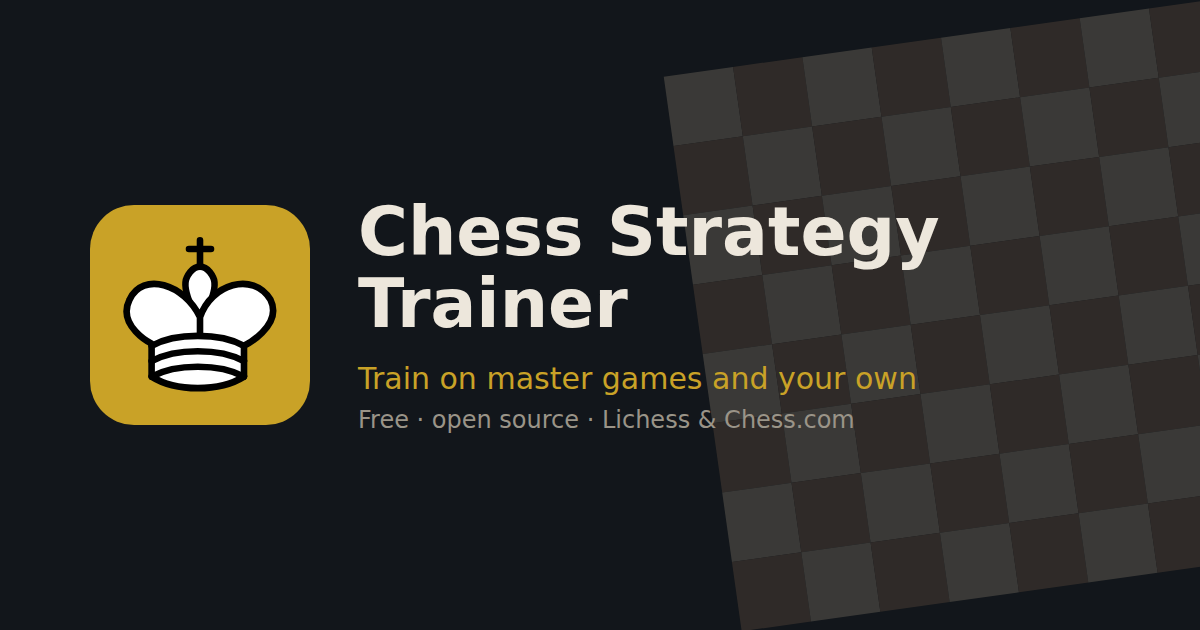
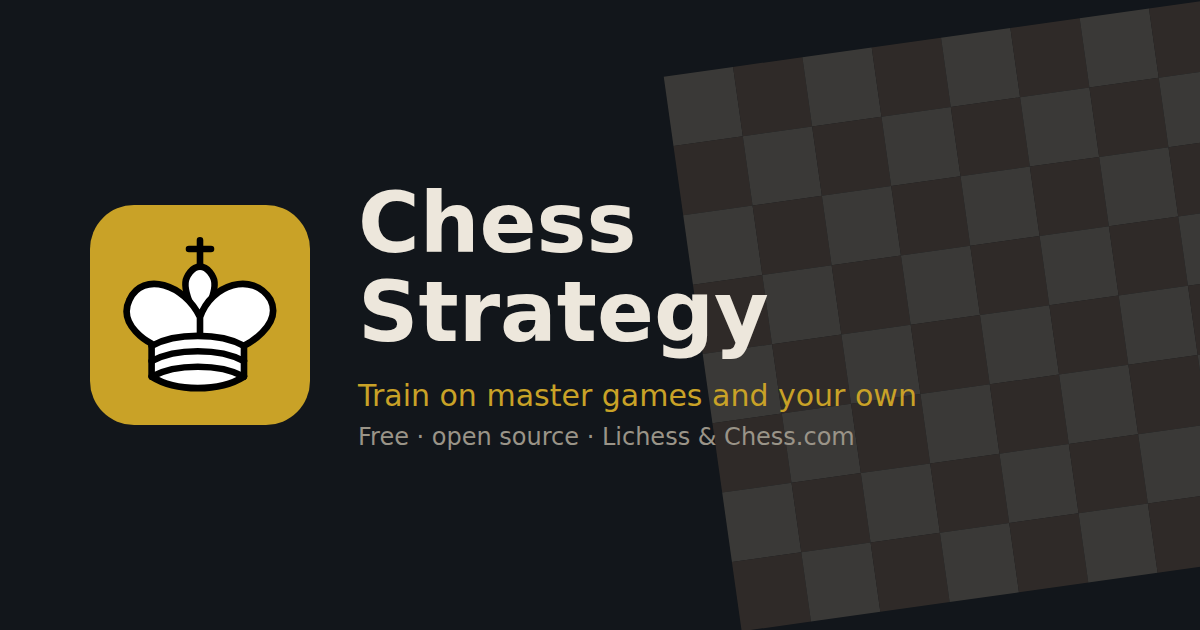
Name: Chess Strategy (home, page title, app name, legal pages, preview image)
Claude-Session: https://claude.ai/code/session_01MnfZY7zM1xtVVHQnQ5TNNV

Changed region(s): [[0.2775, 0.3016, 0.8017, 0.7238]]

diff --git a/index.html b/index.html
@@ -6,7 +6,7 @@
 <meta name="theme-color" content="#12161B">
 <meta name="description" content="Chess strategy training on positions from master games and your own Lichess and Chess.com games.">
 <meta property="og:type" content="website">
-<meta property="og:title" content="Chess Strategy Trainer">
+<meta property="og:title" content="Chess Strategy">
 <meta property="og:description" content="Free chess strategy training on positions from master games and your own Lichess and Chess.com games.">
 <meta property="og:url" content="https://taussane.github.io/chess-trainer/">
 <meta property="og:image" content="https://taussane.github.io/chess-trainer/icons/og-image.png">
@@ -25,7 +25,7 @@
 <!-- Built from app/index.html by scripts/build-site.py: edit the app, not this file. -->
 </head>
 <body>
-<title>Chess Strategy Trainer</title>
+<title>Chess Strategy</title>
 <style>
   /* Layout: one narrow column, home page of three exercise cards, each exercise = position bar + board + one panel. */
   :root{
@@ -4020,7 +4020,7 @@ function kofiButton(){
 const APP_URL = 'https://taussane.github.io/chess-trainer/';
 let supCopied = false;
 async function shareApp(){
-  const data = { title: tr('Chess Strategy Trainer'), text: tr('Free chess strategy training on master games and your own.'), url: APP_URL };
+  const data = { title: 'Chess Strategy', text: tr('Free chess strategy training on master games and your own.'), url: APP_URL };
   if(navigator.share){ try{ await navigator.share(data); }catch(e){} return; }   // (closing the sheet is not an error worth showing)
   copyAppLink();
 }
@@ -4143,7 +4143,7 @@ function renderHome(){
   app.innerHTML = `
     <div class="home-head">
       <div class="home-top"><button class="acct-chip" id="accountBtn"><span class="acct-dot" aria-hidden="true"><span class="pc pc-wK"></span></span>${DIRECT_LICHESS && !signedIn() ? 'Profile' : `${displayName().replace(/</g,'&lt;') || 'Guest'}`}</button></div>
-      <h1>Chess Strategy Trainer</h1>
+      <h1 data-no-i18n>Chess Strategy</h1>
       ${(DIRECT_LICHESS ? !signedIn() : !results.length) ? `<p>Train your strategy beyond tactics puzzles: gauge the imbalances, evaluate the position, find good candidates, choose the best.<br>Learn from master games and your own mistakes.</p>` : ''}
     </div>
     ${routineCard()}
@@ -5666,7 +5666,6 @@ const dateLoc = ()=>typeof LANG!=='undefined' && LANG==='fr' ? 'fr-CA' : undefin
 // marked data-no-i18n (and their children) are left alone: moves, names.
 var LANG = 'en';   // (var: read by dateLoc before this line runs, at worst)
 const I18N_FR = new Map(Object.entries(/*I18N_FR*/{
-"Chess Strategy Trainer": "Entraîneur de stratégie aux échecs",
 "Back to exercises": "Retour aux exercices",
 "Back to profile": "Retour au profil",
 "How this exercise works": "Comment fonctionne cet exercice",
@@ -6125,7 +6124,7 @@ function setLanguage(){
   LANG = settings.lang || auto;
   localPieces = LOCAL_PIECES[LANG] || null;
   document.documentElement.lang = LANG;
-  document.title = LANG==='fr' ? 'Entraîneur de stratégie aux échecs' : 'Chess Strategy Trainer';
+  document.title = 'Chess Strategy';
   i18nObserver.disconnect();
   if(LANG==='fr'){ translateNode(document.body); i18nObserver.observe(document.body, { childList:true, subtree:true, characterData:true, attributes:true, attributeFilter:I18N_ATTRS }); }
 }

diff --git a/app/index.html b/app/index.html
@@ -1,4 +1,4 @@
-<title>Chess Strategy Trainer</title>
+<title>Chess Strategy</title>
 <style>
   /* Layout: one narrow column, home page of three exercise cards, each exercise = position bar + board + one panel. */
   :root{
@@ -3993,7 +3993,7 @@ function kofiButton(){
 const APP_URL = 'https://taussane.github.io/chess-trainer/';
 let supCopied = false;
 async function shareApp(){
-  const data = { title: tr('Chess Strategy Trainer'), text: tr('Free chess strategy training on master games and your own.'), url: APP_URL };
+  const data = { title: 'Chess Strategy', text: tr('Free chess strategy training on master games and your own.'), url: APP_URL };
   if(navigator.share){ try{ await navigator.share(data); }catch(e){} return; }   // (closing the sheet is not an error worth showing)
   copyAppLink();
 }
@@ -4116,7 +4116,7 @@ function renderHome(){
   app.innerHTML = `
     <div class="home-head">
       <div class="home-top"><button class="acct-chip" id="accountBtn"><span class="acct-dot" aria-hidden="true"><span class="pc pc-wK"></span></span>${DIRECT_LICHESS && !signedIn() ? 'Profile' : `${displayName().replace(/</g,'&lt;') || 'Guest'}`}</button></div>
-      <h1>Chess Strategy Trainer</h1>
+      <h1 data-no-i18n>Chess Strategy</h1>
       ${(DIRECT_LICHESS ? !signedIn() : !results.length) ? `<p>Train your strategy beyond tactics puzzles: gauge the imbalances, evaluate the position, find good candidates, choose the best.<br>Learn from master games and your own mistakes.</p>` : ''}
     </div>
     ${routineCard()}
@@ -5639,7 +5639,6 @@ const dateLoc = ()=>typeof LANG!=='undefined' && LANG==='fr' ? 'fr-CA' : undefin
 // marked data-no-i18n (and their children) are left alone: moves, names.
 var LANG = 'en';   // (var: read by dateLoc before this line runs, at worst)
 const I18N_FR = new Map(Object.entries(/*I18N_FR*/{
-"Chess Strategy Trainer": "Entraîneur de stratégie aux échecs",
 "Back to exercises": "Retour aux exercices",
 "Back to profile": "Retour au profil",
 "How this exercise works": "Comment fonctionne cet exercice",
@@ -6098,7 +6097,7 @@ function setLanguage(){
   LANG = settings.lang || auto;
   localPieces = LOCAL_PIECES[LANG] || null;
   document.documentElement.lang = LANG;
-  document.title = LANG==='fr' ? 'Entraîneur de stratégie aux échecs' : 'Chess Strategy Trainer';
+  document.title = 'Chess Strategy';
   i18nObserver.disconnect();
   if(LANG==='fr'){ translateNode(document.body); i18nObserver.observe(document.body, { childList:true, subtree:true, characterData:true, attributes:true, attributeFilter:I18N_ATTRS }); }
 }

diff --git a/terms-fr.html b/terms-fr.html
@@ -3,7 +3,7 @@
 <head>
 <meta charset="utf-8">
 <meta name="viewport" content="width=device-width,initial-scale=1">
-<title>Conditions d'utilisation · Entraîneur de stratégie aux échecs</title>
+<title>Conditions d'utilisation · Chess Strategy</title>
 <style>
   :root{ color-scheme: dark; --bg:#12161B; --text:#EDE7DC; --mute:#9A9488; --accent:#C9A227; }
   body{ background:var(--bg); color:var(--text); margin:0; font:15px/1.55 system-ui, -apple-system, "Segoe UI", sans-serif; }
@@ -17,7 +17,7 @@
 <main>
   <p class="mute" style="text-align:right;margin:0"><a href="terms.html" lang="en">English</a></p>
   <h1>Conditions d'utilisation</h1>
-  <p class="mute">L'Entraîneur de stratégie aux échecs (Chess Strategy Trainer) est un logiciel libre et gratuit (GNU AGPL v3), fait par une seule personne sur son temps libre. En utilisant le site, vous acceptez ces conditions.</p>
+  <p class="mute">Chess Strategy est un logiciel libre et gratuit (GNU AGPL v3), fait par une seule personne sur son temps libre. En utilisant le site, vous acceptez ces conditions.</p>
 
   <h2>Le service</h2>
   <p>Le site est gratuit, sans publicité et sans rien à vendre. Les dons via Ko-fi sont des cadeaux facultatifs et ne débloquent rien&nbsp;: tout le monde a la même application. Il est fourni tel quel, sans aucune garantie&nbsp;: il peut changer, contenir des erreurs ou être parfois indisponible. Les positions d'entraînement et les évaluations du moteur servent à apprendre et peuvent être fausses.</p>
@@ -37,7 +37,7 @@
   <h2>Modifications et questions</h2>
   <p>Ces conditions peuvent être mises à jour&nbsp;; la dernière version est toujours sur cette page. Questions ou commentaires&nbsp;: ouvrez un ticket sur <a href="https://github.com/Taussane/chess-trainer/issues">GitHub</a>.</p>
   <p class="mute">Dernière mise à jour&nbsp;: 22 octobre 2026.</p>
-  <p><a href="./">‹ Retour à l'entraîneur</a></p>
+  <p><a href="./">‹ Retour à Chess Strategy</a></p>
 </main>
 </body>
 </html>

diff --git a/privacy-fr.html b/privacy-fr.html
@@ -3,7 +3,7 @@
 <head>
 <meta charset="utf-8">
 <meta name="viewport" content="width=device-width,initial-scale=1">
-<title>Confidentialité · Entraîneur de stratégie aux échecs</title>
+<title>Confidentialité · Chess Strategy</title>
 <style>
   :root{ color-scheme: dark; --bg:#12161B; --text:#EDE7DC; --mute:#9A9488; --accent:#C9A227; }
   body{ background:var(--bg); color:var(--text); margin:0; font:15px/1.55 system-ui, -apple-system, "Segoe UI", sans-serif; }
@@ -17,7 +17,7 @@
 <main>
   <p class="mute" style="text-align:right;margin:0"><a href="privacy.html" lang="en">English</a></p>
   <h1>Confidentialité</h1>
-  <p class="mute">L'Entraîneur de stratégie aux échecs est un logiciel libre et gratuit, sans publicité et sans pistage d'un site à l'autre&nbsp;; il compte seulement son propre usage, de façon anonyme (voir plus bas).</p>
+  <p class="mute">Chess Strategy est un logiciel libre et gratuit, sans publicité et sans pistage d'un site à l'autre&nbsp;; il compte seulement son propre usage, de façon anonyme (voir plus bas).</p>
 
   <h2>Sans vous connecter</h2>
   <p>Tout reste dans votre navigateur&nbsp;: vos scores, vos parties et leur analyse. Si vous ajoutez un nom d'utilisateur Chess.com, notre serveur récupère pour vous les parties publiques de ce joueur sur Chess.com, et n'en garde rien.</p>
@@ -50,7 +50,7 @@
   <h2>Questions</h2>
   <p>Ouvrez un ticket sur <a href="https://github.com/Taussane/chess-trainer/issues">GitHub</a>. Le code qui fait tout cela s'y trouve aussi.</p>
   <p>Voir aussi les <a href="terms-fr.html">conditions d'utilisation</a>.</p>
-  <p><a href="./">‹ Retour à l'entraîneur</a></p>
+  <p><a href="./">‹ Retour à Chess Strategy</a></p>
 </main>
 </body>
 </html>

diff --git a/terms.html b/terms.html
@@ -3,7 +3,7 @@
 <head>
 <meta charset="utf-8">
 <meta name="viewport" content="width=device-width,initial-scale=1">
-<title>Terms · Chess Strategy Trainer</title>
+<title>Terms · Chess Strategy</title>
 <style>
   :root{ color-scheme: dark; --bg:#12161B; --text:#EDE7DC; --mute:#9A9488; --accent:#C9A227; }
   body{ background:var(--bg); color:var(--text); margin:0; font:15px/1.55 system-ui, -apple-system, "Segoe UI", sans-serif; }
@@ -17,7 +17,7 @@
 <main>
   <p class="mute" style="text-align:right;margin:0"><a href="terms-fr.html" lang="fr">Français</a></p>
   <h1>Terms of use</h1>
-  <p class="mute">Chess Strategy Trainer is free, open-source software (GNU AGPL v3), made by one person in their spare time. By using the site you agree to these terms.</p>
+  <p class="mute">Chess Strategy is free, open-source software (GNU AGPL v3), made by one person in their spare time. By using the site you agree to these terms.</p>
 
   <h2>The service</h2>
   <p>The site is free, with no ads and nothing to sell. Donations through Ko-fi are optional gifts and unlock nothing: everyone gets the same app. It is provided as it is, without any guarantee: it may change, have errors, or be unavailable at times. Training positions and engine evaluations are for learning and may be wrong.</p>
@@ -37,7 +37,7 @@
   <h2>Changes and questions</h2>
   <p>These terms may be updated; the latest version is always on this page. Questions or feedback: open an issue on <a href="https://github.com/Taussane/chess-trainer/issues">GitHub</a>.</p>
   <p class="mute">Last updated: 22 October 2026.</p>
-  <p><a href="./">‹ Back to the trainer</a></p>
+  <p><a href="./">‹ Back to Chess Strategy</a></p>
 </main>
 </body>
 </html>

diff --git a/privacy.html b/privacy.html
@@ -3,7 +3,7 @@
 <head>
 <meta charset="utf-8">
 <meta name="viewport" content="width=device-width,initial-scale=1">
-<title>Privacy · Chess Strategy Trainer</title>
+<title>Privacy · Chess Strategy</title>
 <style>
   :root{ color-scheme: dark; --bg:#12161B; --text:#EDE7DC; --mute:#9A9488; --accent:#C9A227; }
   body{ background:var(--bg); color:var(--text); margin:0; font:15px/1.55 system-ui, -apple-system, "Segoe UI", sans-serif; }
@@ -17,7 +17,7 @@
 <main>
   <p class="mute" style="text-align:right;margin:0"><a href="privacy-fr.html" lang="fr">Français</a></p>
   <h1>Privacy</h1>
-  <p class="mute">Chess Strategy Trainer is free, open-source software with no ads and no tracking across sites; it only counts its own use, anonymously (below).</p>
+  <p class="mute">Chess Strategy is free, open-source software with no ads and no tracking across sites; it only counts its own use, anonymously (below).</p>
 
   <h2>Without logging in</h2>
   <p>Everything stays in your browser: your scores, your games and their analysis. If you add a Chess.com username, our server fetches that player's public games from Chess.com for you, and keeps nothing.</p>
@@ -50,7 +50,7 @@
   <h2>Questions</h2>
   <p>Open an issue on <a href="https://github.com/Taussane/chess-trainer/issues">GitHub</a>. The code that does all of this is there too.</p>
   <p>See also the <a href="terms.html">terms of use</a>.</p>
-  <p><a href="./">‹ Back to the trainer</a></p>
+  <p><a href="./">‹ Back to Chess Strategy</a></p>
 </main>
 </body>
 </html>

diff --git a/scripts/build-site.py b/scripts/build-site.py
@@ -12,7 +12,7 @@ page = ('<!doctype html>\n<html lang="en">\n<head>\n<meta charset="utf-8">\n'
         '<meta name="description" content="Chess strategy training on positions from master games and your own Lichess and Chess.com games.">\n'
         # link previews (Open Graph, X/Twitter): icons/og-image.png, 1200x630
         '<meta property="og:type" content="website">\n'
-        '<meta property="og:title" content="Chess Strategy Trainer">\n'
+        '<meta property="og:title" content="Chess Strategy">\n'
         '<meta property="og:description" content="Free chess strategy training on positions from master games and your own Lichess and Chess.com games.">\n'
         '<meta property="og:url" content="https://taussane.github.io/chess-trainer/">\n'
         '<meta property="og:image" content="https://taussane.github.io/chess-trainer/icons/og-image.png">\n'

diff --git a/tests/website.py b/tests/website.py
@@ -27,7 +27,7 @@ async def main():
         await pg.goto('https://site.test/'); await pg.wait_for_timeout(400)
         st = await pg.evaluate("[document.compatMode, !!document.querySelector('meta[name=viewport]'), document.title, typeof window.claude, document.documentElement.scrollWidth <= innerWidth]")
         print('page:', st)
-        if st != ['CSS1Compat', True, 'Chess Strategy Trainer', 'undefined', True]: fails.append(f'page setup: {st}')
+        if st != ['CSS1Compat', True, 'Chess Strategy', 'undefined', True]: fails.append(f'page setup: {st}')
         await pg.evaluate("(()=>{"+T.FAKE+" render(); })()")
         await pg.click('#accountBtn')
         if await pg.query_selector('#exportLink'): fails.append('the website still shows the download steps')

diff --git a/README.md b/README.md
@@ -1,4 +1,4 @@
-# Chess Strategy Trainer
+# Chess Strategy
 
 A mobile-first chess trainer with four exercises, in the order a player thinks: **Imbalance reading** (who has the edge in material, pawns, space, activity, king safety and threats), **Position evaluation**, **Candidate moves** and **Move selection**. Free and open: positions from master games, and from your own Lichess and Chess.com games.
 

diff --git a/THIRD_PARTY.md b/THIRD_PARTY.md
@@ -1,6 +1,6 @@
 # Third-party notices
 
-Chess Strategy Trainer is licensed under the GNU Affero General Public License v3.0 (see `LICENSE`). It uses or adapts the following, under their own licences.
+Chess Strategy is licensed under the GNU Affero General Public License v3.0 (see `LICENSE`). It uses or adapts the following, under their own licences.
 
 ## chess.js 0.12.1
 
